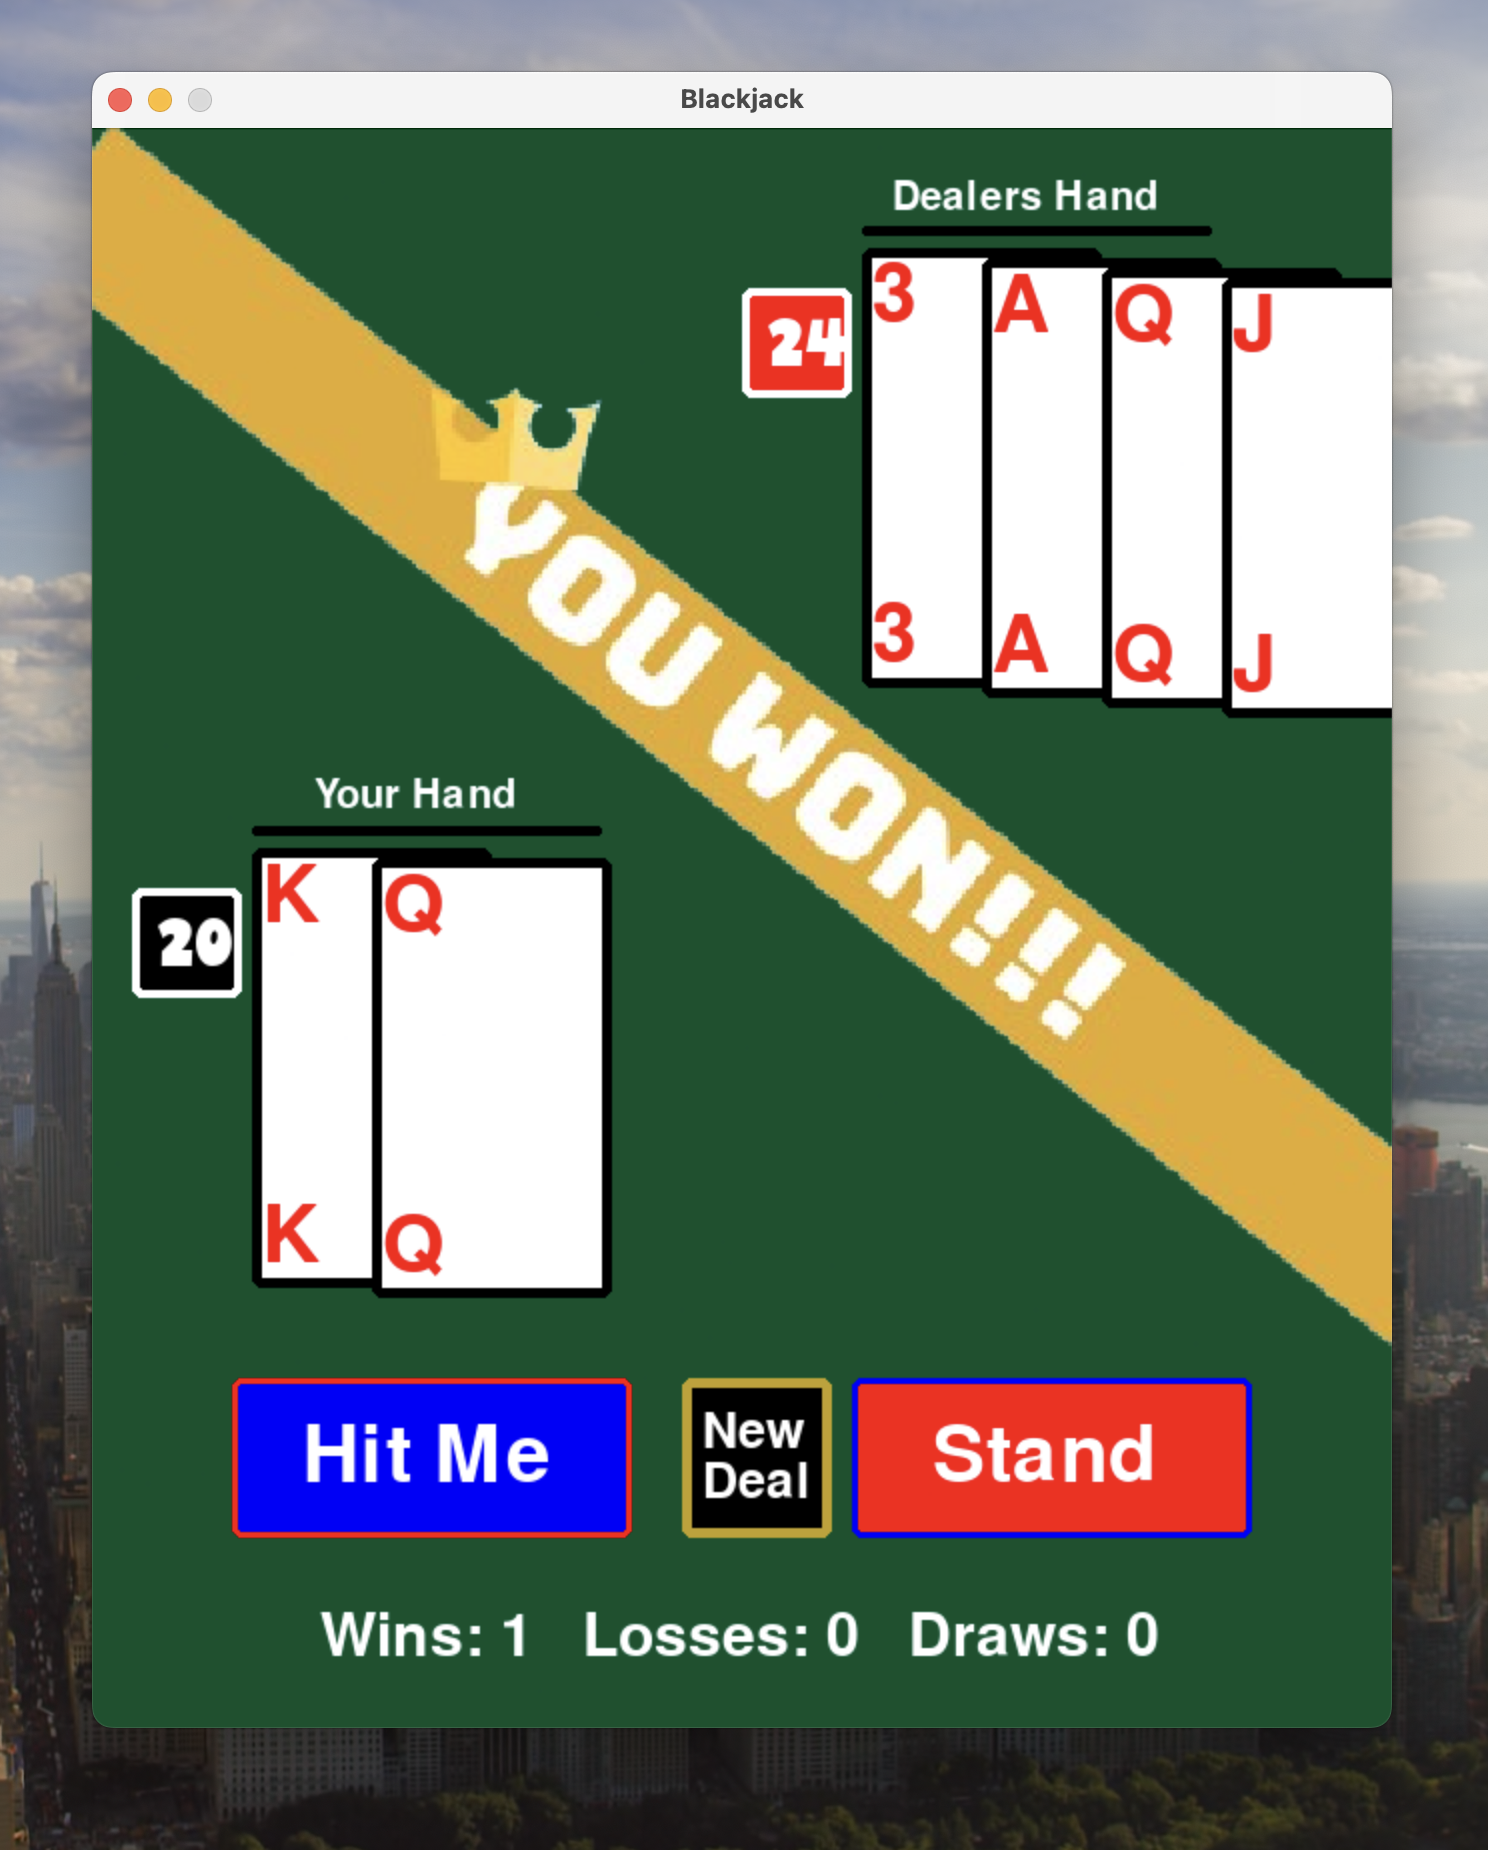
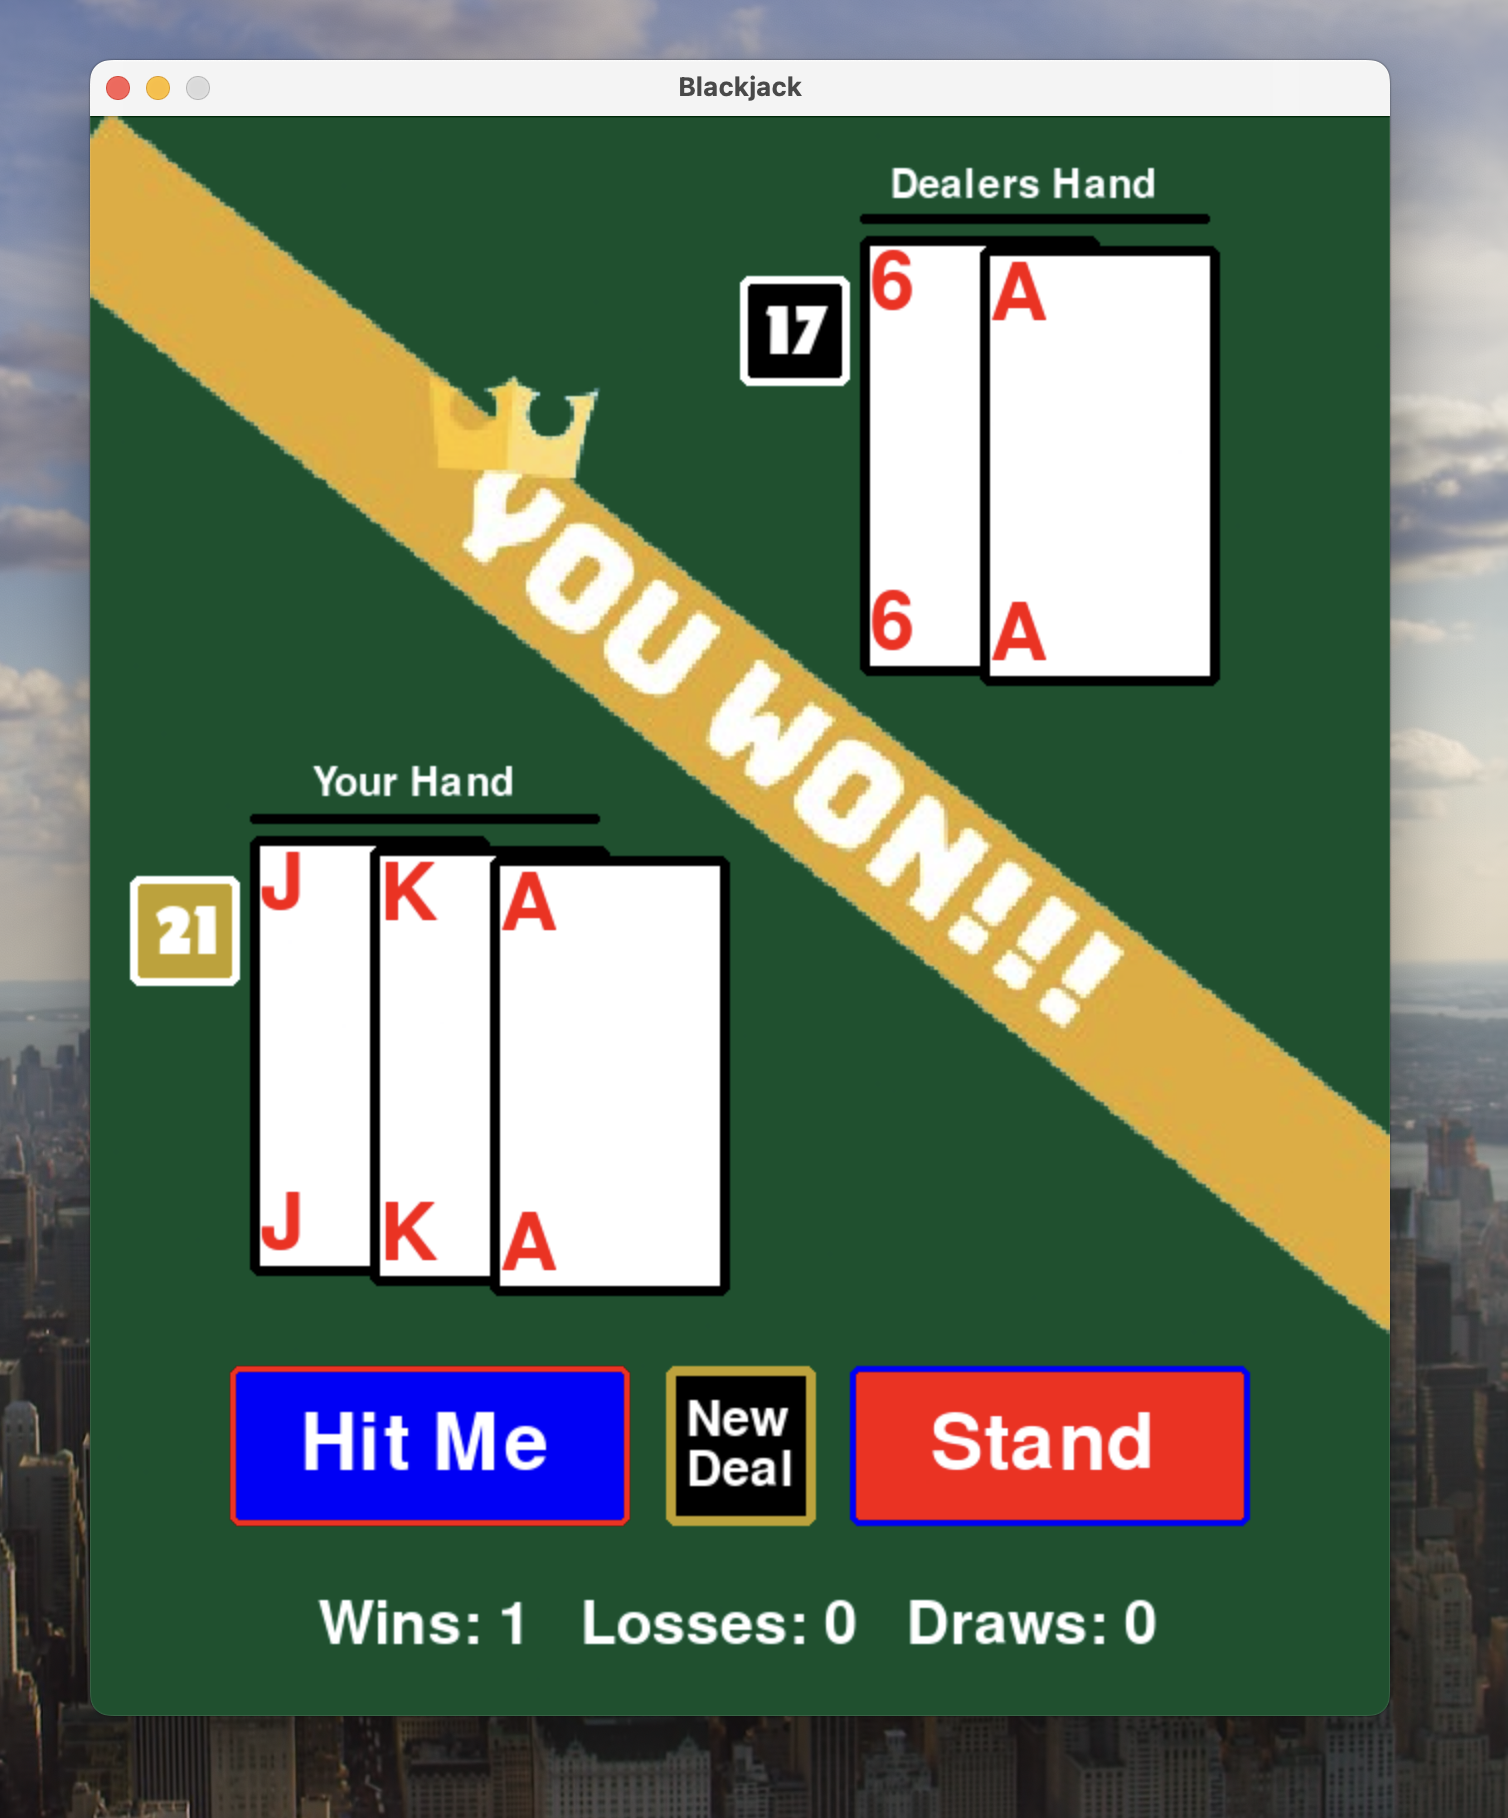
centered button

diff --git a/main.py b/main.py
@@ -93,10 +93,10 @@ def setup(act, record, result):
     if result != 0:
 
         screen.blit(results[result - 1], (-58, -68))
-        deal = pygame.draw.rect(screen, BLACK, (295, 625, 75, 80), 0, 5)
-        pygame.draw.rect(screen, GOLD, (295, 625, 75, 80), 5, 5)
-        screen.blit(font4.render("New", True, WHITE), (305, 640))
-        screen.blit(font4.render("Deal", True, WHITE), (305, 665))
+        deal = pygame.draw.rect(screen, BLACK, (288, 625, 75, 80), 0, 5)
+        pygame.draw.rect(screen, GOLD, (288, 625, 75, 80), 5, 5)
+        screen.blit(font4.render("New", True, WHITE), (298, 640))
+        screen.blit(font4.render("Deal", True, WHITE), (298, 665))
         button_list.append(deal)
     
     return button_list
